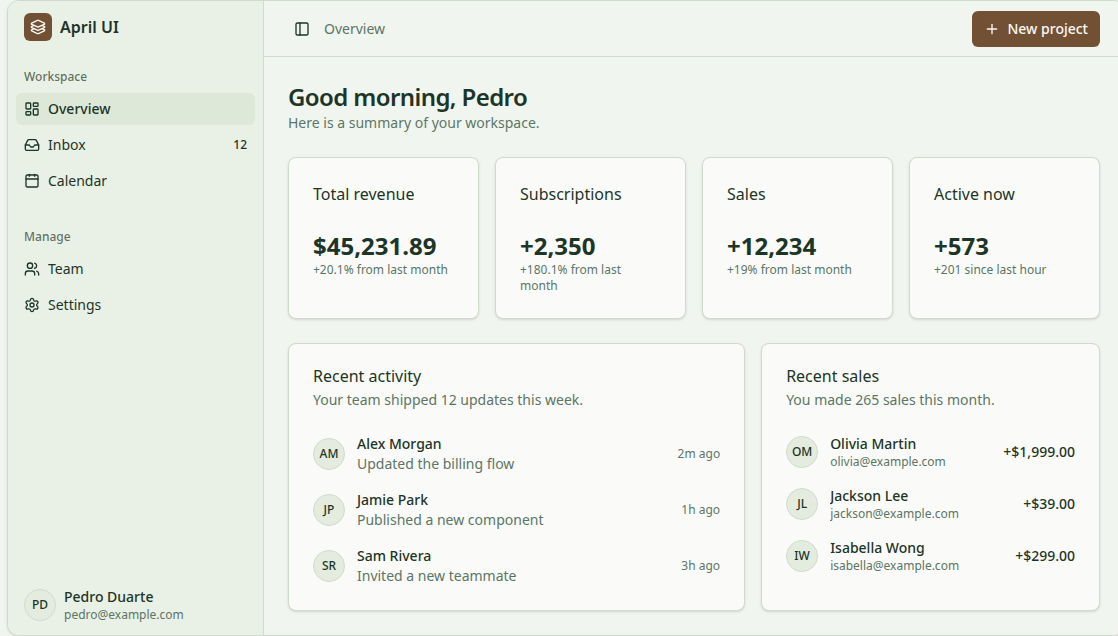
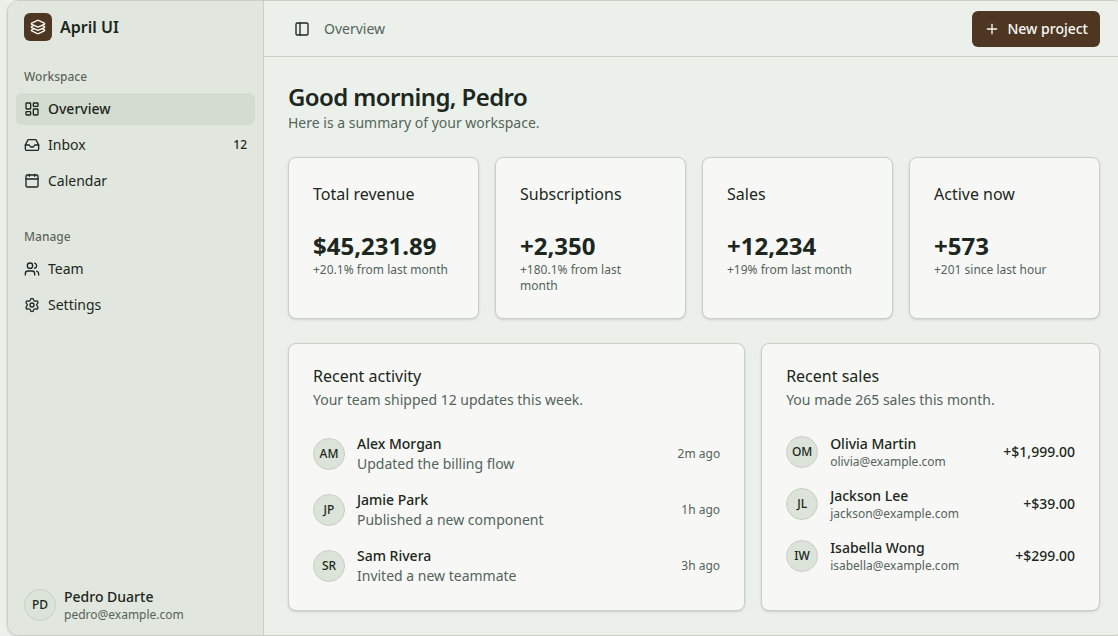
Improve dark theme contrast and metadata

Changed region(s): [[0.8515, 0.0, 1.0, 0.0896], [0.0, 0.0, 0.0608, 0.0597]]

diff --git a/resources/css/app.css b/resources/css/app.css
@@ -46,72 +46,74 @@ html[data-april-density="compact"] [data-slot="card-footer"] {
 @source "../../april-ui/docs/previews";
 @source "../views/components/blocks";
 
-/* April's default palette: almost-white green surfaces, a soft brown accent,
+/* April's default palette: grey-mixed moss surfaces, a deeper brown accent,
    and a layered forest green workspace in dark mode. */
 :root:not([data-april-theme]) {
-    --background: 105 24% 95%;
-    --foreground: 145 30% 16%;
-    --card: 95 30% 98%;
-    --card-foreground: 145 30% 16%;
-    --popover: 95 30% 99%;
-    --popover-foreground: 145 30% 16%;
-    --primary: 28 38% 32%;
-    --primary-foreground: 35 35% 97%;
-    --secondary: 100 25% 90%;
-    --secondary-foreground: 145 30% 16%;
-    --muted: 100 25% 90%;
-    --muted-foreground: 145 12% 41%;
-    --accent: 30 28% 91%;
-    --accent-foreground: 145 30% 16%;
-    --border: 100 16% 83%;
-    --input: 100 16% 83%;
-    --ring: 28 38% 32%;
-    --sidebar-background: 100 26% 92%;
-    --sidebar-foreground: 145 30% 16%;
-    --sidebar-primary: 28 38% 32%;
-    --sidebar-primary-foreground: 35 35% 97%;
-    --sidebar-accent: 100 25% 88%;
-    --sidebar-accent-foreground: 145 30% 16%;
-    --sidebar-border: 100 16% 83%;
-    --sidebar-ring: 28 38% 32%;
-    --chart-1: hsl(28 38% 32%);
-    --chart-2: hsl(145 30% 28%);
-    --chart-3: hsl(84 25% 43%);
-    --chart-4: hsl(102 20% 57%);
-    --chart-5: hsl(38 45% 63%);
+    --background: 105 20% 93%;
+    --foreground: 145 18% 13%;
+    --card: 95 14% 97%;
+    --card-foreground: 145 18% 13%;
+    --popover: 95 14% 98%;
+    --popover-foreground: 145 18% 13%;
+    --primary: 28 38% 22%;
+    --primary-text: 28 38% 22%;
+    --primary-foreground: 35 25% 97%;
+    --secondary: 100 15% 87%;
+    --secondary-foreground: 145 18% 13%;
+    --muted: 100 15% 87%;
+    --muted-foreground: 145 8% 36%;
+    --accent: 30 20% 86%;
+    --accent-foreground: 145 18% 13%;
+    --border: 100 10% 79%;
+    --input: 100 10% 79%;
+    --ring: 28 38% 22%;
+    --sidebar-background: 100 16% 89%;
+    --sidebar-foreground: 145 18% 13%;
+    --sidebar-primary: 28 38% 22%;
+    --sidebar-primary-foreground: 35 25% 97%;
+    --sidebar-accent: 100 15% 84%;
+    --sidebar-accent-foreground: 145 18% 13%;
+    --sidebar-border: 100 10% 79%;
+    --sidebar-ring: 28 38% 22%;
+    --chart-1: hsl(28 50% 22%);
+    --chart-2: hsl(145 20% 23%);
+    --chart-3: hsl(84 18% 38%);
+    --chart-4: hsl(102 14% 50%);
+    --chart-5: hsl(38 32% 55%);
 }
 
 html.dark:not([data-april-theme]) {
-    --background: 145 32% 7%;
-    --foreground: 45 35% 94%;
-    --card: 145 26% 10%;
-    --card-foreground: 45 35% 94%;
-    --popover: 145 26% 10%;
-    --popover-foreground: 45 35% 94%;
-    --primary: 28 37% 48%;
-    --primary-foreground: 45 35% 94%;
-    --secondary: 145 20% 16%;
-    --secondary-foreground: 45 35% 94%;
-    --muted: 145 20% 16%;
-    --muted-foreground: 90 14% 68%;
-    --accent: 30 27% 18%;
-    --accent-foreground: 45 35% 94%;
-    --border: 145 18% 20%;
-    --input: 145 18% 20%;
-    --ring: 28 37% 48%;
-    --sidebar-background: 145 34% 5%;
-    --sidebar-foreground: 45 35% 94%;
-    --sidebar-primary: 28 37% 48%;
-    --sidebar-primary-foreground: 45 35% 94%;
-    --sidebar-accent: 145 20% 16%;
-    --sidebar-accent-foreground: 45 35% 94%;
-    --sidebar-border: 145 18% 17%;
-    --sidebar-ring: 28 37% 48%;
-    --chart-1: hsl(28 37% 48%);
-    --chart-2: hsl(145 35% 49%);
-    --chart-3: hsl(84 30% 58%);
-    --chart-4: hsl(102 25% 67%);
-    --chart-5: hsl(38 50% 72%);
+    --background: 145 20% 6%;
+    --foreground: 45 28% 92%;
+    --card: 145 15% 9%;
+    --card-foreground: 45 28% 92%;
+    --popover: 145 15% 9%;
+    --popover-foreground: 45 28% 92%;
+    --primary: 28 50% 22%;
+    --primary-text: 28 50% 46%;
+    --primary-foreground: 45 28% 92%;
+    --secondary: 145 12% 14%;
+    --secondary-foreground: 45 28% 92%;
+    --muted: 145 12% 14%;
+    --muted-foreground: 90 9% 64%;
+    --accent: 30 20% 15%;
+    --accent-foreground: 45 28% 92%;
+    --border: 145 10% 17%;
+    --input: 145 10% 17%;
+    --ring: 28 50% 22%;
+    --sidebar-background: 145 22% 4%;
+    --sidebar-foreground: 45 28% 92%;
+    --sidebar-primary: 28 50% 22%;
+    --sidebar-primary-foreground: 45 28% 92%;
+    --sidebar-accent: 145 12% 14%;
+    --sidebar-accent-foreground: 45 28% 92%;
+    --sidebar-border: 145 10% 15%;
+    --sidebar-ring: 28 50% 22%;
+    --chart-1: hsl(28 50% 22%);
+    --chart-2: hsl(145 22% 43%);
+    --chart-3: hsl(84 22% 52%);
+    --chart-4: hsl(102 18% 61%);
+    --chart-5: hsl(38 38% 65%);
 }
 
 @utility marketing-grid {
@@ -122,6 +124,12 @@ html.dark:not([data-april-theme]) {
 }
 
 @layer components {
+    /* The dark brown action color is too dark for copy on forest surfaces. */
+    .dark .text-primary,
+    .dark .hover\:text-primary:hover {
+        color: hsl(var(--primary-text));
+    }
+
     .april-reveal {
         transition:
             opacity 910ms cubic-bezier(0.22, 1, 0.36, 1),
@@ -153,20 +161,6 @@ html.dark:not([data-april-theme]) {
     .april-hero-frame {
         animation: april-float 12s ease-in-out infinite;
     }
-
-    .april-hero-frame::after {
-        content: "";
-        position: absolute;
-        inset: 0;
-        pointer-events: none;
-        background: linear-gradient(110deg, transparent 35%, color-mix(in oklab, hsl(var(--primary)) 12%, transparent) 50%, transparent 65%);
-        transform: translateX(-120%);
-        transition: transform 1200ms cubic-bezier(0.22, 1, 0.36, 1);
-    }
-
-    .april-hero-frame:hover::after {
-        transform: translateX(120%);
-    }
 }
 
 @media (prefers-reduced-motion: reduce) {
@@ -177,10 +171,6 @@ html.dark:not([data-april-theme]) {
 
     .april-reveal,
     .april-lift,
-    .april-hero-frame::after {
-        transition: none;
-    }
-
     .js .april-reveal {
         opacity: 1;
         transform: none;

diff --git a/resources/views/components/layout.blade.php b/resources/views/components/layout.blade.php
@@ -2,26 +2,9 @@
 <html lang="en" dir="ltr">
 
 <head>
-    @php
-        $siteName = config('app.name') === 'Laravel' ? 'April UI' : config('app.name');
-        isset($title) ? $title = $title.' | '.$siteName : $title = $siteName;
-    @endphp
-    <title>{{$title}}</title>
     <meta charset="utf-8">
     <meta name="viewport" content="width=device-width, initial-scale=1, viewport-fit=cover">
-    <meta name="description" content="{{$description ?? ''}}">
-    <meta name="theme-color" content="#303030">
-    <meta property="og:type" content="website">
-    <meta property="og:title" content="{{$title}}">
-    <meta property="og:description" content="{{$description ?? ''}}">
-    <meta property="og:image" content="{{asset('images/examples/dashboard.png')}}">
-    <meta property="og:url" content="{{url()->current()}}">
-    <meta property="og:site_name" content="{{$siteName}}">
-    <meta property="og:locale" content="en_US">
-    <meta name="twitter:card" content="summary_large_image">
-    <meta name="twitter:url" content="{{url()->current()}}">
-    <meta name="twitter:title" content="{{$title}}">
-    <meta name="twitter:image" content="{{asset('images/examples/dashboard.png')}}">
+    <x-seo-head :title="$title ?? null" :description="$description ?? null" />
     <script>
         const createAprilPalette = (name, values) => {
             const light = {
@@ -32,6 +15,7 @@
                 popover: values.lightCard || '0 0% 100%',
                 'popover-foreground': values.lightForeground,
                 primary: values.primary,
+                'primary-text': values.primaryText || values.primary,
                 'primary-foreground': values.primaryForeground,
                 secondary: values.lightMuted,
                 'secondary-foreground': values.lightForeground,
@@ -61,6 +45,7 @@
                 popover: values.darkCard || values.darkBackground,
                 'popover-foreground': values.darkForeground || '0 0% 98%',
                 primary: values.darkPrimary || values.primary,
+                'primary-text': values.darkPrimaryText || values.darkPrimary || values.primary,
                 'primary-foreground': values.darkPrimaryForeground || values.primaryForeground,
                 secondary: values.darkMuted,
                 'secondary-foreground': values.darkForeground || '0 0% 98%',
@@ -123,26 +108,28 @@
                 darkPrimaryForeground: '222.2 47.4% 11.2%'
             }),
             green: createAprilPalette('Forest', {
-                primary: '28 38% 32%',
-                primaryForeground: '35 35% 97%',
-                lightBackground: '105 24% 95%',
-                lightForeground: '145 30% 16%',
-                lightCard: '95 30% 98%',
-                lightMuted: '100 25% 90%',
-                lightMutedForeground: '145 12% 41%',
-                lightBorder: '100 16% 83%',
-                lightAccent: '30 28% 91%',
-                lightSidebarBackground: '100 26% 92%',
-                darkBackground: '145 32% 7%',
-                darkForeground: '45 35% 94%',
-                darkCard: '145 26% 10%',
-                darkMuted: '145 20% 16%',
-                darkMutedForeground: '90 14% 68%',
-                darkBorder: '145 18% 20%',
-                darkAccent: '30 27% 18%',
-                darkSidebarBackground: '145 34% 5%',
-                darkPrimary: '28 37% 48%',
-                darkPrimaryForeground: '45 35% 94%'
+                primary: '28 38% 22%',
+                primaryText: '28 38% 22%',
+                primaryForeground: '35 25% 97%',
+                lightBackground: '105 20% 93%',
+                lightForeground: '145 18% 13%',
+                lightCard: '95 14% 97%',
+                lightMuted: '100 15% 87%',
+                lightMutedForeground: '145 8% 36%',
+                lightBorder: '100 10% 79%',
+                lightAccent: '30 20% 86%',
+                lightSidebarBackground: '100 16% 89%',
+                darkBackground: '145 20% 6%',
+                darkForeground: '45 28% 92%',
+                darkCard: '145 15% 9%',
+                darkMuted: '145 12% 14%',
+                darkMutedForeground: '90 9% 64%',
+                darkBorder: '145 10% 17%',
+                darkAccent: '30 20% 15%',
+                darkSidebarBackground: '145 22% 4%',
+                darkPrimary: '28 50% 22%',
+                darkPrimaryText: '28 50% 46%',
+                darkPrimaryForeground: '45 28% 92%'
             }),
             rose: createAprilPalette('Rose', {
                 primary: '346.8 77.2% 49.8%',
@@ -181,7 +168,7 @@
                 root.removeAttribute('data-april-density')
                 root.removeAttribute('data-april-font')
                 ;['--background', '--foreground', '--card', '--card-foreground', '--popover', '--popover-foreground',
-                    '--primary', '--primary-foreground', '--secondary', '--secondary-foreground', '--muted',
+                    '--primary', '--primary-text', '--primary-foreground', '--secondary', '--secondary-foreground', '--muted',
                     '--muted-foreground', '--accent', '--accent-foreground', '--destructive', '--destructive-foreground',
                     '--border', '--input', '--ring', '--sidebar-background', '--sidebar-foreground', '--sidebar-primary',
                     '--sidebar-primary-foreground', '--sidebar-accent', '--sidebar-accent-foreground', '--sidebar-border',
@@ -275,7 +262,6 @@
     <link rel="icon" type="image/png" href="/favicon.png" />
     <link rel="apple-touch-icon" type="image/png" sizes="76x76" href="/favicon.png?width=76" />
     <link rel="mask-icon" href="/safari-pinned-tab.svg" color="#5bbad5" />
-    <link rel="canonical" href="">
     @vite('resources/css/app.css')
     @stack('head-scripts')
     <livewire:styles />

diff --git a/resources/views/components/seo-head.blade.php b/resources/views/components/seo-head.blade.php
@@ -1,0 +1,74 @@
+@props([
+    'title' => null,
+    'description' => null,
+    'image' => null,
+    'imageAlt' => 'April UI component preview',
+    'type' => 'website',
+    'robots' => 'index, follow',
+])
+
+@php
+    $siteName = config('app.name') === 'Laravel' ? 'April UI' : config('app.name');
+    $pageTitle = $title ? $title.' | '.$siteName : $siteName;
+    $pageDescription = $description ?: 'Laravel UI components for Blade and Livewire, with the workflow and elegance of Laravel.';
+    $pageUrl = url()->current();
+    $socialImage = $image ?: asset('images/examples/dashboard.png');
+    $siteUrl = url('/');
+    $schema = [
+        '@context' => 'https://schema.org',
+        '@graph' => [
+            [
+                '@type' => 'WebSite',
+                '@id' => $siteUrl.'#website',
+                'url' => $siteUrl,
+                'name' => $siteName,
+                'description' => $pageDescription,
+            ],
+            [
+                '@type' => 'WebPage',
+                '@id' => $pageUrl.'#webpage',
+                'url' => $pageUrl,
+                'name' => $pageTitle,
+                'description' => $pageDescription,
+                'isPartOf' => ['@id' => $siteUrl.'#website'],
+                'inLanguage' => 'en-US',
+                'primaryImageOfPage' => [
+                    '@type' => 'ImageObject',
+                    'url' => $socialImage,
+                ],
+            ],
+        ],
+    ];
+@endphp
+
+<title>{{ $pageTitle }}</title>
+<meta name="description" content="{{ $pageDescription }}">
+<meta name="robots" content="{{ $robots }}">
+<meta name="author" content="{{ $siteName }}">
+<meta name="application-name" content="{{ $siteName }}">
+<meta name="color-scheme" content="light dark">
+<meta name="theme-color" content="#EBF1EA" media="(prefers-color-scheme: light)">
+<meta name="theme-color" content="#0C120F" media="(prefers-color-scheme: dark)">
+<link rel="canonical" href="{{ $pageUrl }}">
+
+<meta property="og:type" content="{{ $type }}">
+<meta property="og:title" content="{{ $pageTitle }}">
+<meta property="og:description" content="{{ $pageDescription }}">
+<meta property="og:url" content="{{ $pageUrl }}">
+<meta property="og:site_name" content="{{ $siteName }}">
+<meta property="og:locale" content="en_US">
+<meta property="og:image" content="{{ $socialImage }}">
+<meta property="og:image:secure_url" content="{{ $socialImage }}">
+<meta property="og:image:type" content="image/png">
+<meta property="og:image:width" content="1118">
+<meta property="og:image:height" content="636">
+<meta property="og:image:alt" content="{{ $imageAlt }}">
+
+<meta name="twitter:card" content="summary_large_image">
+<meta name="twitter:title" content="{{ $pageTitle }}">
+<meta name="twitter:description" content="{{ $pageDescription }}">
+<meta name="twitter:url" content="{{ $pageUrl }}">
+<meta name="twitter:image" content="{{ $socialImage }}">
+<meta name="twitter:image:alt" content="{{ $imageAlt }}">
+
+<script type="application/ld+json">@json($schema, JSON_UNESCAPED_SLASHES | JSON_UNESCAPED_UNICODE)</script>

diff --git a/resources/views/pages/index.blade.php b/resources/views/pages/index.blade.php
@@ -54,8 +54,8 @@ SHELL;
                         <span class="text-border">/</span>
                         <span>Laravel Blade components</span>
                     </div>
-                    <h1 data-april-reveal class="april-reveal mt-7 max-w-xl text-balance text-5xl font-bold tracking-[-0.04em] md:text-7xl" style="--april-delay: 150ms">
-                        Laravel UI, in the Blade way.
+                    <h1 data-april-reveal class="april-reveal mt-7 max-w-xl text-balance text-5xl font-bold tracking-[-0.04em] md:text-6xl" style="--april-delay: 150ms">
+                        UI components <span class="primary-text"> crafted </span> for Artisans
                     </h1>
                     <p data-april-reveal class="april-reveal mt-6 max-w-xl text-lg leading-8 text-muted-foreground md:text-xl" style="--april-delay: 230ms">
                         A component library for building product interfaces with the Laravel elegance you already know.

diff --git a/resources/views/components/docs-layout.blade.php b/resources/views/components/docs-layout.blade.php
@@ -1,4 +1,4 @@
-<x-layout :title="$title ?? null">
+<x-layout :title="$title ?? null" :description="$description ?? null">
     <april:sidebar-layout class="items-start px-3">
         <april:sidebar collapsible="none"
             x-persist="desktop-menu"
